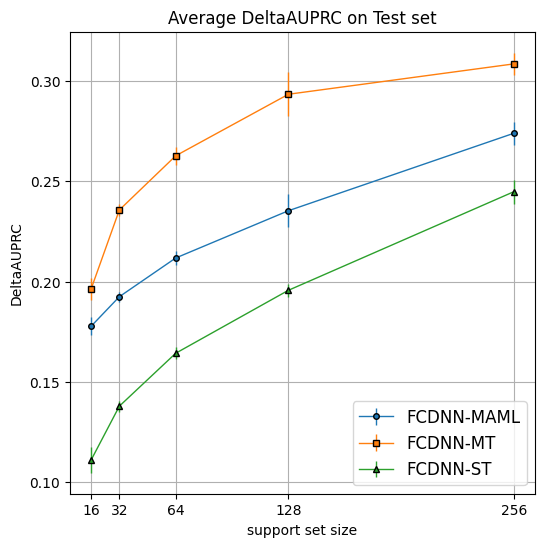
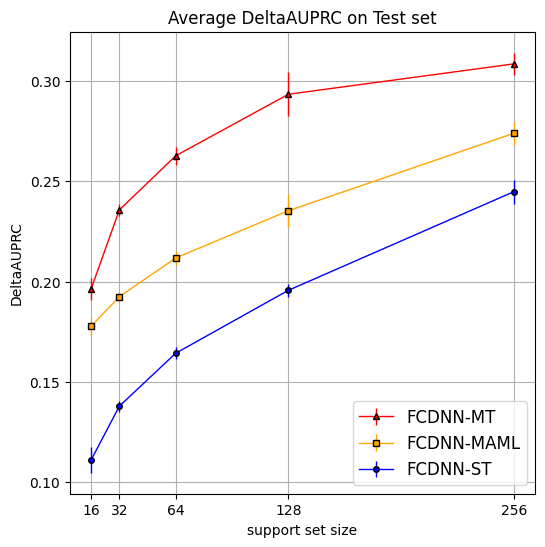
added plots

diff --git a/custom_fs/plot.py b/custom_fs/plot.py
@@ -48,11 +48,13 @@ def plot_avg_dauprc_with_error(mean, std, model_names, DataFold, n_support):
     else:
         fold = "Test"
 
-    symbols = ["o", "s", "^"]
+    symbols = ["^", "s", "o"]
+    colors = ["red", "orange", "blue"]
     fig, ax = plt.subplots()
     ax.set_title(f"Average DeltaAUPRC on {fold} set")
     for i, model in enumerate(model_names):
-        ax.errorbar(n_support, mean[i], yerr=[std[i], std[i]], label=model, marker=symbols[i], mec="black",
+        ax.errorbar(n_support, mean[i], yerr=[std[i], std[i]], label=model,
+                    marker=symbols[i], mec="black", color=colors[i],
                     linewidth=1, markersize=4)
 
     plt.xticks(n_support)
